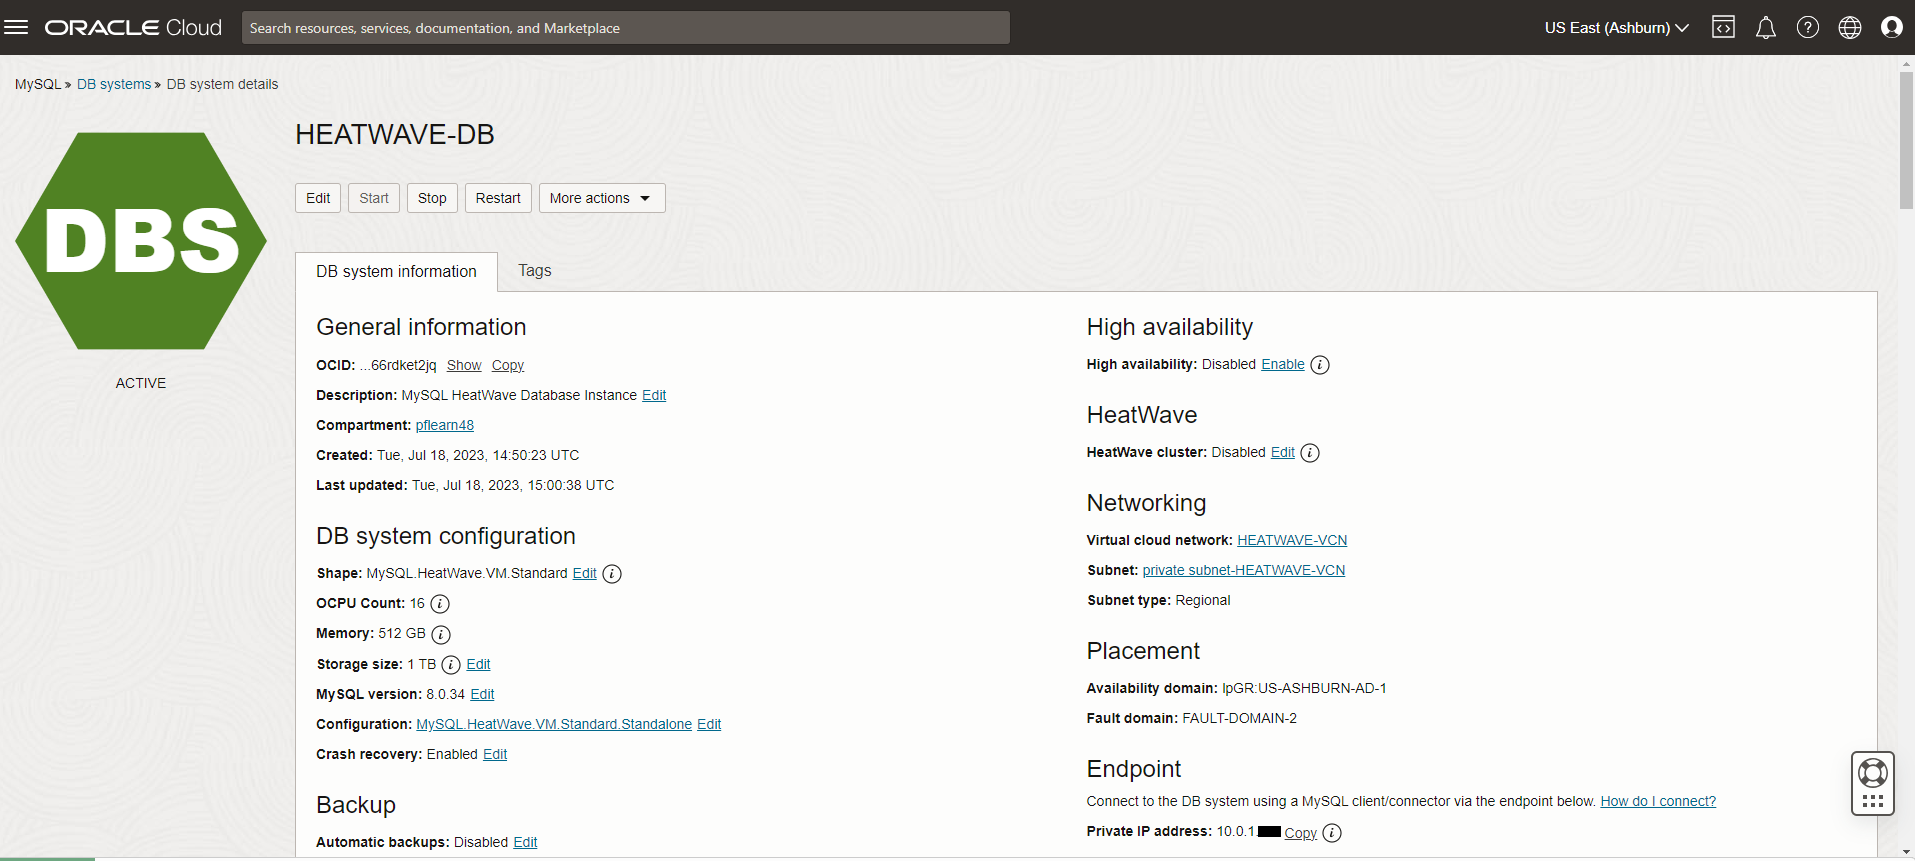
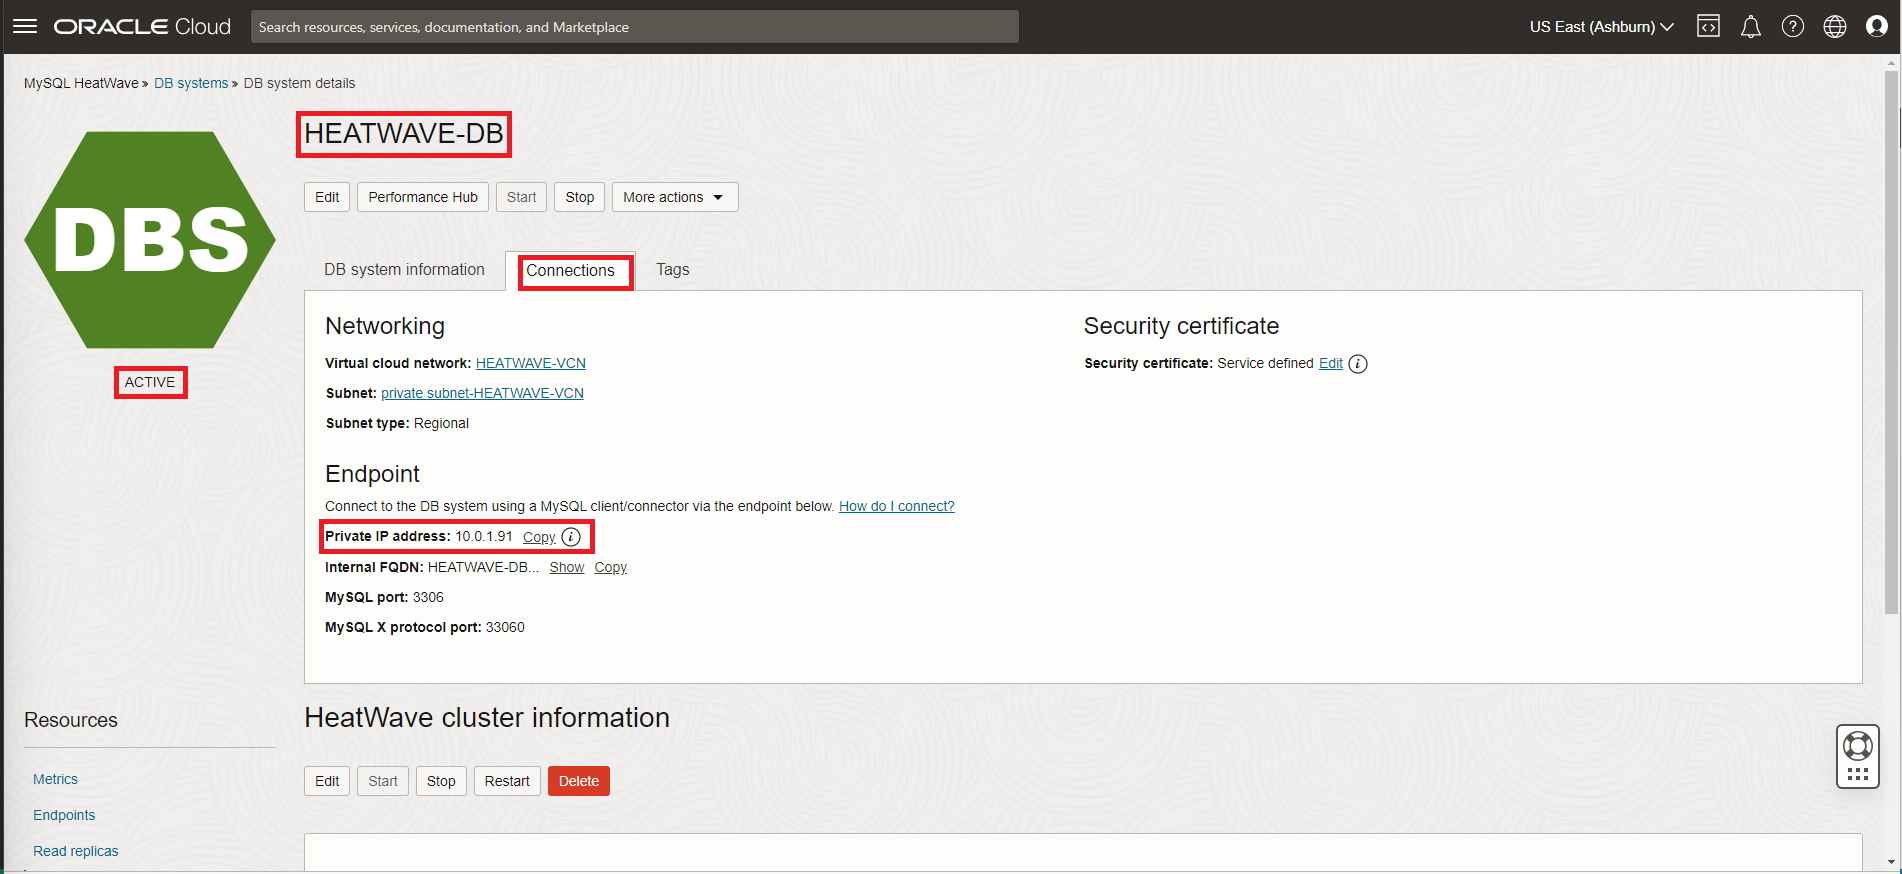
updated
updated

diff --git a/create-dbs/create-dbs.md b/create-dbs/create-dbs.md
@@ -252,7 +252,7 @@ In this lab, you will be guided through the following tasks:
 
 15. The state 'Active' indicates that the DB System is ready for use
 
-    On HEATWAVE-HW Page, check the MySQL Endpoint (Private IP Address)
+    On HEATWAVE-HW Page, select the **Connections** tab and save the **Private IP**
 
     ![heatwave endpoint](./images/mysql-detail-active.png "heatwave endpoint")
 
